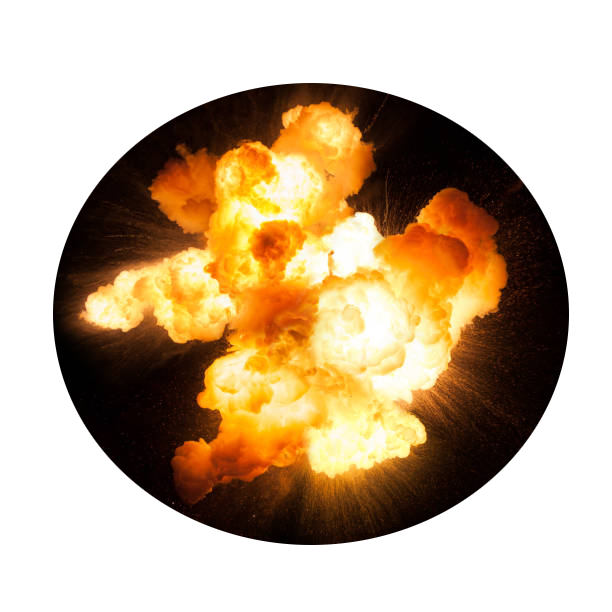
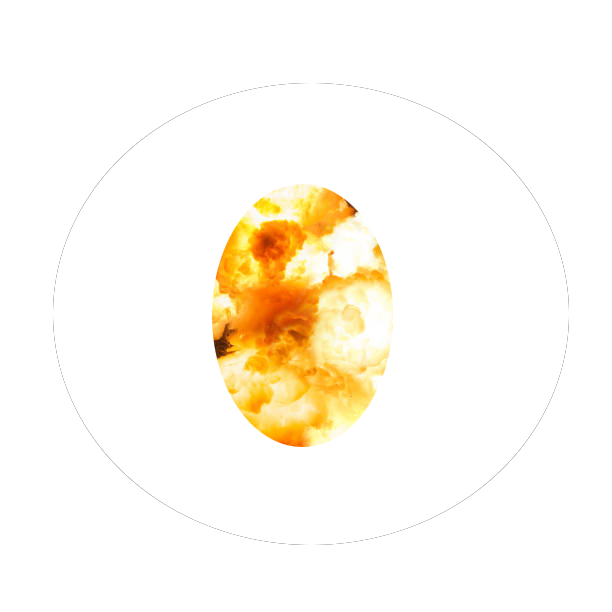
boss damage effect

diff --git a/boss.py b/boss.py
@@ -5,13 +5,16 @@ from sound_manager import SoundManager
 from asteroid import Asteroid, Explosion
 from math import atan2, degrees
 
+import pygame
+import time
+
 class Boss(Asteroid):
     def __init__(self, x, y):
         super().__init__(x, y, ASTEROID_MAX_RADIUS * 1.5)
         self.velocity = pygame.Vector2(0, 0)
         self.sound_manager = SoundManager()
         
-        # Load the original boss image (without rotation)
+        # Load the original boss image and the damage image
         self.original_boss_image = pygame.image.load('assets/images/boss.png')
         self.original_boss_image = pygame.transform.scale(self.original_boss_image, (int(ASTEROID_MAX_RADIUS * 1.5 * 2), int(ASTEROID_MAX_RADIUS * 1.5 * 2)))
         self.boss_image = self.original_boss_image
@@ -20,6 +23,13 @@ class Boss(Asteroid):
         self.health = BOSS_HEALTH
         
         self.alpha = 255  # Initial opacity
+        
+        # Damage display properties
+        self.damage_image = pygame.image.load('assets/images/boss_damage.png')  # Your damage effect image
+        self.damage_image = pygame.transform.scale(self.damage_image, (int(ASTEROID_MAX_RADIUS * 1.5 * 2), int(ASTEROID_MAX_RADIUS * 1.5 * 2)))
+        self.sound_manager.load_sound("damage", 'assets/sounds/boss_damage.flac')
+        self.damage_timer = 0  # To track the time for showing damage image
+        self.show_damage = False  # Flag to track whether damage image should be shown
 
     def take_damage(self):
         """Handle damage to the boss."""
@@ -27,6 +37,11 @@ class Boss(Asteroid):
         if self.health <= 0:
             self.alpha = 255  # Reset alpha if boss is defeated
             self.kill()  # Remove the boss from the game
+        else:
+            # When boss takes damage, show the damage effect
+            self.sound_manager.play_sound('damage')
+            self.show_damage = True
+            self.damage_timer = pygame.time.get_ticks()  # Record the time when damage occurs
 
     def update(self, dt, player=None):
         """Update boss position, handle fade-out, and rotation towards the player."""
@@ -56,6 +71,14 @@ class Boss(Asteroid):
             self.rect = rotated_image.get_rect(center=self.rect.center)  # Keep the boss centered after rotation
             self.boss_image = rotated_image
 
+        # Check if damage image should disappear after 250 ms (0.25 seconds)
+        if self.show_damage:
+            if pygame.time.get_ticks() - self.damage_timer > 250:  # If 250ms has passed
+                self.show_damage = False  # Hide damage image
+            else:
+                # Show the damage effect for a short period
+                self.boss_image.blit(self.damage_image, (0, 0), special_flags=pygame.BLEND_RGBA_ADD)
+
     def draw(self, screen):
         """Draw the boss on the screen."""
         screen.blit(self.boss_image, self.rect)
@@ -70,6 +93,7 @@ class Boss(Asteroid):
         explosion_sound.play()  # Play the explosion sound
         
         self.kill()  # Remove the asteroid from the game
+
 
 
 

diff --git a/gameover.py b/gameover.py
@@ -30,7 +30,7 @@ def game_over_screen(screen):
     font = pygame.font.SysFont("Arial", 48)
     
     # Text for Game Over and try again prompt
-    game_over_text = font.render("Game Over, Get Back to Work!", True, (255, 0, 0))
+    game_over_text = font.render("Game Over!", True, (255, 0, 0))
     try_again_text = font.render("Press 'R' to Try Again or 'Q' to Quit", True, (255, 255, 255))
     
     # Get the size of the texts
@@ -67,7 +67,7 @@ def win_screen(screen):
     font = pygame.font.SysFont("Arial", 48)
     
     # Text for Game Over and try again prompt
-    game_over_text = font.render("You Win! Get Back to Work!", True, (255, 0, 0))
+    game_over_text = font.render("You Win!", True, (255, 0, 0))
     try_again_text = font.render("Press 'R' to Play Again or 'Q' to Quit", True, (255, 255, 255))
     
     # Get the size of the texts

diff --git a/constants.py b/constants.py
@@ -14,4 +14,4 @@ PLAYER_SHOOT_COOLDOWN = .3
 
 SHOT_RADIUS = 10
 
-BOSS_HEALTH = 5
+BOSS_HEALTH = 30
